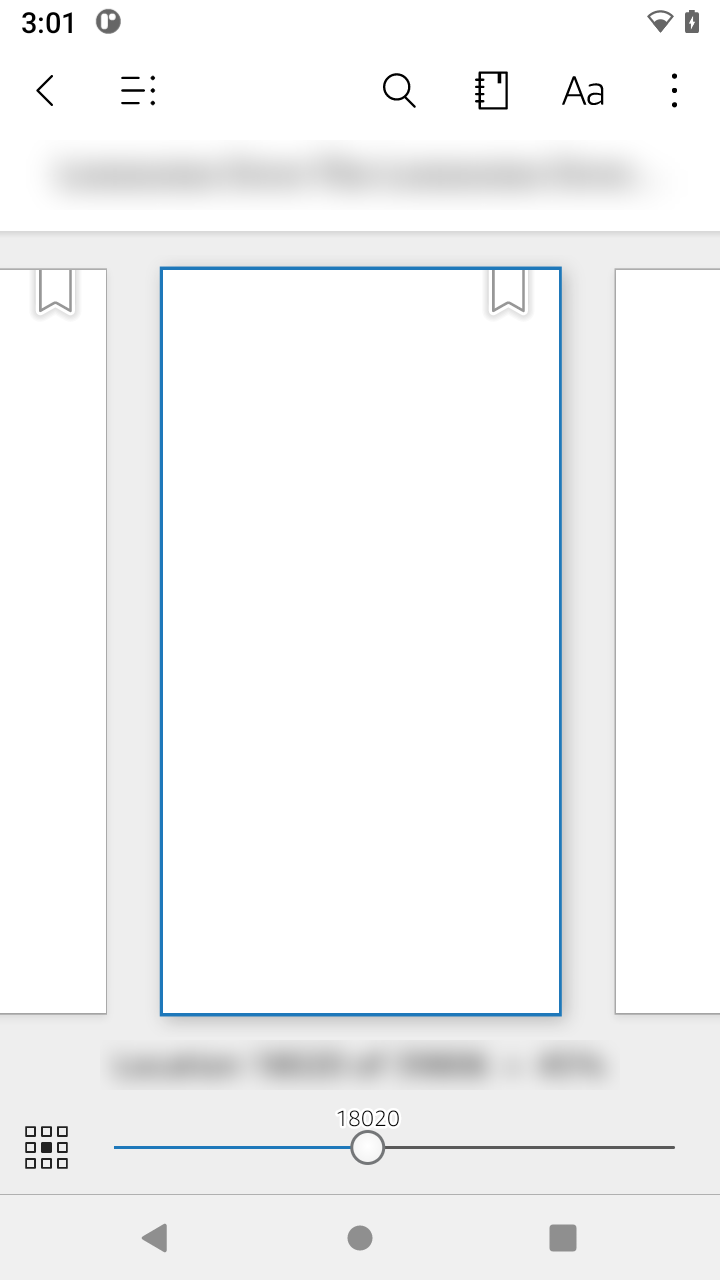
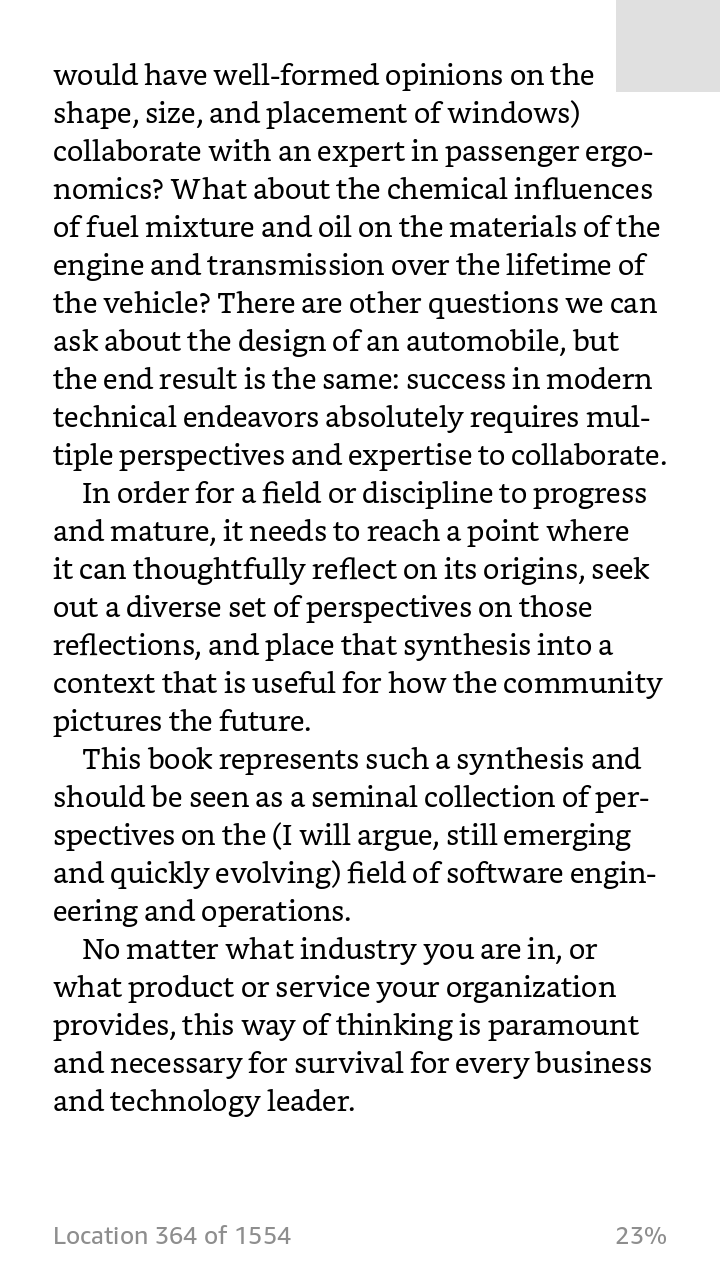
screenshots: real Kindle reading page, and correct the 'secure surface' claim
Kindle's reader on this port is not a secure surface: screencap captures the page
normally. The previous screenshot was blurred and quirk 16 claimed screencap shows
white; both were wrong. Replaced with a straight screencap of a book sample, and
added the cover page.

Claude-Session: https://claude.ai/code/session_01K8g4kSGCyoyZbVLxBG3bWj

diff --git a/docs/INCIDENT-SF-LIVELOCK.md b/docs/INCIDENT-SF-LIVELOCK.md
@@ -2,8 +2,8 @@
 
 Reported by the operator: "device seems hot to touch even after being unplugged", then
 "it seems stuck, can't open it back with power button".  Captured live over ADB before any
-reboot (`a11/gate17/build/hang/20260918-001051/`, project side).  Root cause identified;
-no fix yet.  This is the first hang in ~2 months of daily use of this port.
+reboot (`a11/gate17/build/hang/20260918-001051/`, project side).  Failure mode identified; the underlying code defect is not yet isolated, and there is
+no verified fix.  This is the first hang in ~2 months of daily use of this port.
 
 ## What was actually wrong: a SurfaceFlinger livelock
 
@@ -80,9 +80,55 @@ to fix.  Governor restored to `performance`; sampler scratch files removed from 
    `a11/gate17/build/hang/capture.sh` (waits for the device, dumps thermal/suspend/wakeup/
    top/thread-states/backtrace, reboots nothing), then reboot.
 2. **Cheap discriminator for the AOD hypothesis:** run unplugged with
-   `settings put secure doze_always_on 0` for a few days.  If the hang does not recur,
-   AOD/doze is implicated and the overlay work needs revisiting.
+   `settings put secure doze_always_on 0` for a few days.  A difference in repeatable failure rates could implicate AOD/doze; absence of
+   another rare hang by itself would not establish causation.
 3. Only if it recurs and 2 does not implicate AOD: A/B the composer shim.
 4. Unrelated but found in the same logs: the RIL retries forever,
    `RIL: fd = -1, sleep 2s wait device, total wait time: 3050s` -- a 0.5 Hz wakeup for a
    radio this device does not have.  Disabling it belongs with the §3.5 telephony work.
+
+
+## Follow-up investigation, 2026-09-18
+
+The installed SurfaceFlinger library matches the incident copy (SHA-256
[1 lines of base64/hex data omitted]
+ELF relocation analysis maps the sampled PC `0x1505e8` to the PLT call stub for
+`android::RefBase::decStrong`, at GOT slot `0x163930`. Multiple places in the app
+EventThread call that stub. The single broken backtrace does not identify the
+failing loop or justify patching a particular instruction. Ghidra and Thumb
+instruction review have not yet isolated a code defect.
+
+A connected stress run passed 23 wake/sleep cycles, then another LLM's installer
+work rebooted the device. The operator confirmed that concurrent work; this was
+an interrupted test, not a reproduced hang. The subsequent connected observation
+lasted roughly eight hours without a recurrence, but had zero kernel suspends.
+
+An unplugged test then completed **12 sleep/wake cycles and 23 successful kernel
+suspends** in 17 min 34 sec. SurfaceFlinger retained its PID and responded after
+every cycle. There were seven additional freeze-stage EBUSY aborts, no failed
+resumes, and battery temperature remained 29 C. This does not prove a fix: the
+original livelock did not recur, and no compositor patch has been applied.
+
+### Capture on recurrence
+
+`diagnostics/sf-hang/capture-device.sh OUTPUT_DIRECTORY` collects real mappings,
+thread state, five seconds of CPU sampling, and a full debuggerd tombstone with
+registers and stack data. The old backtrace-only sample lacked these details.
+The capture was validated on a healthy device. It does not reboot or restart
+services and avoids the old capture script's forced I2C reads.
+
+`diagnostics/sf-hang/watch-device.sh` is temporary diagnostic instrumentation.
+Stage the capture as `/data/local/tmp/sf-capture-device.sh` and run the watcher as
+root, detached with nohup if monitoring while unplugged. It samples the app
+EventThread every 15 seconds and captures after three consecutive intervals at
+80% or more of one core. It uses no wake alarm or Android wakelock, expires after
+72 hours, and ends at reboot. It is not installed as a boot service. Two collectors
+are serialized with a directory lock; a killed collector can leave that lock and
+must be inspected before removing it. A capture exit status other than zero means
+collection did not finish successfully.
+
+Raw output stays on the device under `/data/local/tmp/sf-hang-watch-v2` and should
+be kept private: logs and tombstones can contain application data. If the screen
+freezes again, connect USB and collect the output before rebooting. This watcher
+preserves evidence; it does not repair or recover from the hang. No battery-life
+claim is made for the instrumentation overhead.

diff --git a/README.md b/README.md
@@ -26,7 +26,7 @@ calibration (`/private`, never touch it), not the GSI (download it from phhusson
 |---|---|---|
 | ![home](docs/images/home.png) | ![qs](docs/images/quicksettings.png) | ![about](docs/images/about-android11.png) |
 
-| EinkBro | Kindle about (8.156 on API 30) | Kindle reader (title blurred; page content is DRM-protected) |
+| EinkBro | Kindle about (8.156 on API 30) | Kindle, reading a sample |
 |---|---|---|
 | ![einkbro](docs/images/einkbro.png) | ![kindle-about](docs/images/kindle-about.png) | ![kindle](docs/images/kindle-reader.png) |
 
@@ -94,7 +94,7 @@ device, the workaround shipped, and the cleaner fix if someone wants to do it pr
 | 13 | Capacitive Moaan logo as a gesture area | The touch controller reports it as one key (`KEY_HOMEPAGE`), no coordinates | HOME + WAKE via `.kl` | Controller firmware/driver change |
 | 14 | Framework `exec` in the 8.1 init | Temporary `exec` children never ran (Gate 1F a6) | Declared oneshot/long-running services only | -- |
 | 15 | Telephony | Vendor declares GSM/IMS it has no hardware for | PHH no-RIL; phone process idle | Vendor manifest without telephony |
-| 16 | Screenshots of DRM readers | Kindle's reader surface is secure: screencap shows white | -- | -- |
+| 16 | ~~Screenshots of DRM readers~~ | **Corrected 2026-09-18:** Kindle's reader is *not* a secure surface here -- `screencap` captures the page normally (the reader screenshot above is a straight `screencap`). The earlier "shows white" note was wrong | -- | -- |
 
 ## Layout
     twrp/       mktwrp.py + twrp-epd105-ramdisk.cpio.gz + libepdfix.c + overlay patch
